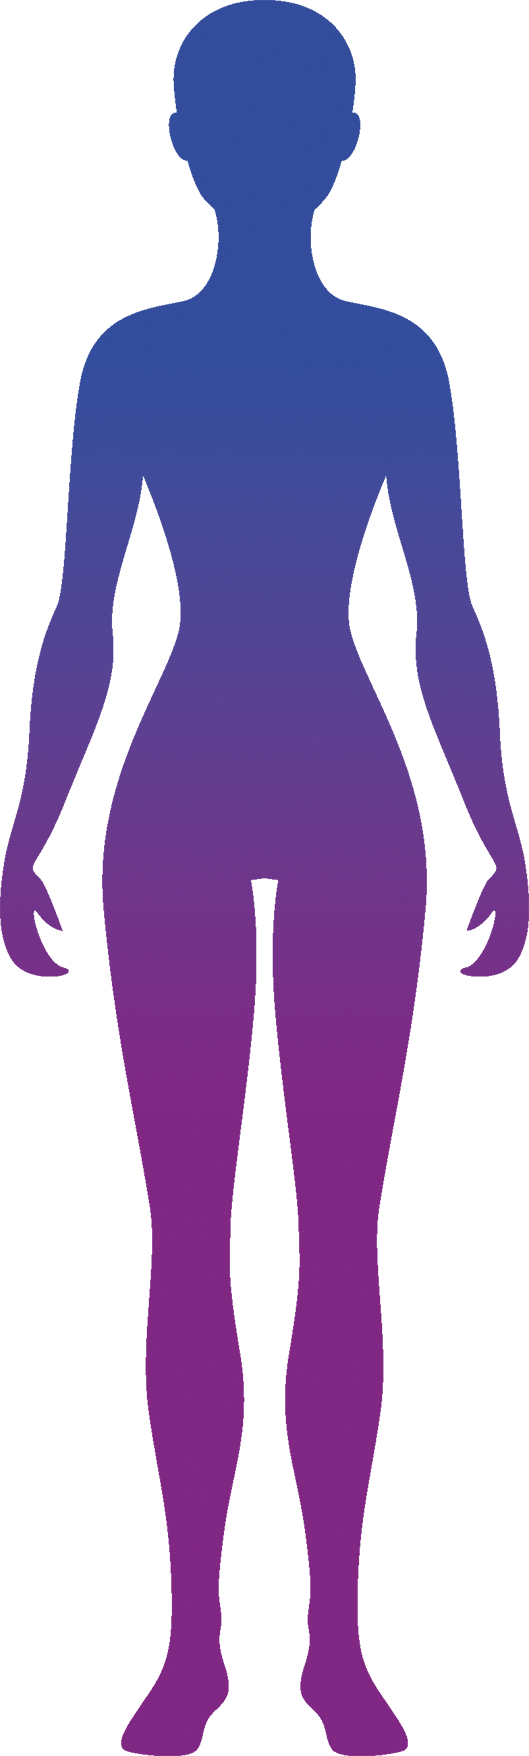
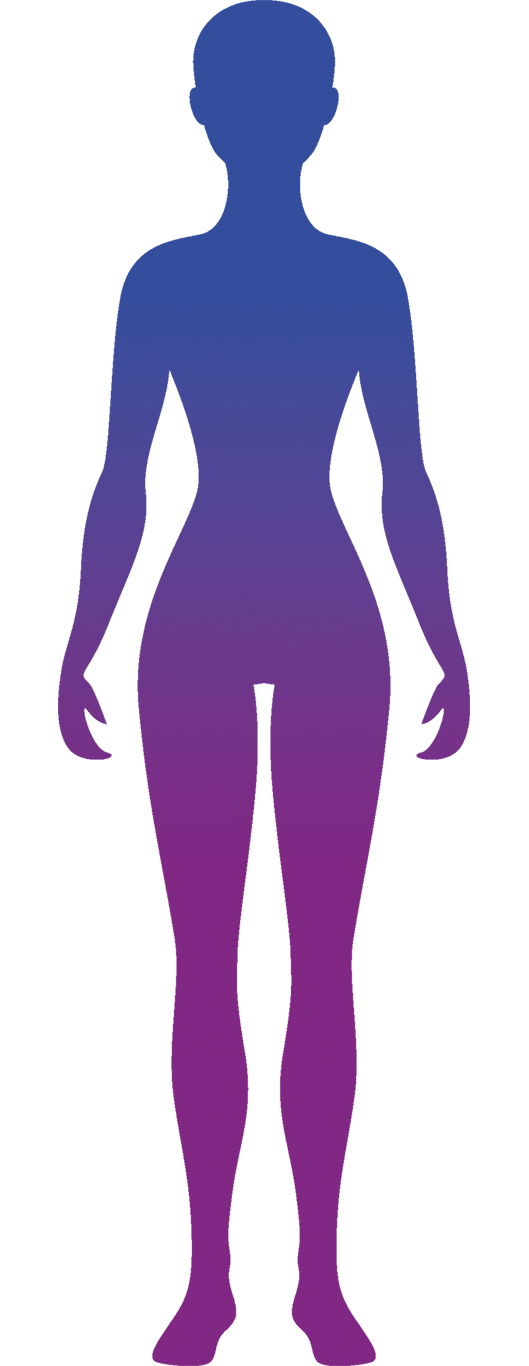
Communication with API and results display

diff --git a/fitness_calc.js b/fitness_calc.js
@@ -1,9 +1,10 @@
 // Weight slider
 
-let weightIndicator = document.getElementById('weight-indicator')
-let weightSlider = document.getElementById('weight-input')
+const weightIndicator = document.getElementById('weight-indicator')
+const weightSlider = document.getElementById('weight-input')
 
 weightIndicator.style.left = (weightSlider.value-45)*0.808333+'%'
+weightIndicator.textContent = weightSlider.value + 'kg'
 
 weightSlider.oninput = (()=>{
     weightIndicator.style.left = (weightSlider.value-45)*0.808333+'%'
@@ -12,15 +13,133 @@ weightSlider.oninput = (()=>{
 
 //gender toggler
 
-let maleBtn = document.getElementById('btn-male')
-let femaleBtn = document.getElementById('btn-female')
+let gender = 'male'
 
-maleBtn.onclick = (()=>{
+const maleBtn = document.getElementById('btn-male')
+const femaleBtn = document.getElementById('btn-female')
+const body = document.getElementById('body')
+
+maleBtn.onclick = ()=>{
     maleBtn.classList.toggle('active')
     femaleBtn.classList.toggle('active')
-})
+    body.src = 'imgs/bodies/male.png'
+    gender = 'male'
+}
 
-femaleBtn.onclick = (()=>{
+femaleBtn.onclick = ()=>{
     femaleBtn.classList.toggle('active')
     maleBtn.classList.toggle('active')
-})
+    body.src = 'imgs/bodies/female.png'
+    gender = 'female'
+}
+
+//get data
+
+const btnCalc = document.getElementById('btn-calc')
+
+btnCalc.onclick = ()=>{
+    
+    let age = document.getElementById('age-input').value
+    if (age === ''){age = -1}
+    else if (age == 0){age = 1}
+        
+    let weight = document.getElementById('weight-input').value
+    let height = document.getElementById('height-input').value
+    let neck = document.getElementById('neck-input').value
+    let waist = document.getElementById('waist-input').value
+    let hip = document.getElementById('hip-input').value
+
+    const options = {
+        method: 'GET',
+        headers: {
+            'X-RapidAPI-Key': '764b7dd13bmsh5052cb02cc32d39p133d57jsne66582f5752e',
+		    'X-RapidAPI-Host': 'fitness-calculator.p.rapidapi.com'
+        }
+    }
+
+    fetch(`https://fitness-calculator.p.rapidapi.com/bodyfat?age=${age}&gender=${gender}&weight=${weight}&height=${height}&neck=${neck}&waist=${waist}&hip=${hip}`, options)
+
+        .then(response => response.json())
+        .then(response => {
+            console.log(response)
+            if(response.status_code === 422){
+                showErrors(response.errors)
+            }
+            if(response.status_code === 200){
+                showResults(response.data)
+            }
+        })
+}
+
+
+
+//results
+
+const resultsModal = new bootstrap.Modal(document.getElementById('results-modal'))
+const resultsTitle = document.querySelector('.modal-title')
+const resultsBody = document.querySelector('.modal-body')
+
+function showErrors(errors){
+    
+    resultsTitle.textContent = 'Wrong Values'
+    resultsBody.innerHTML = '<ul></ul>'
+    
+    errors.forEach(error => {
+        let errorElement = document.createElement('li')
+        error[0] = error[0].toUpperCase()
+        errorElement.textContent = error
+        document.querySelector('.modal-body ul').appendChild(errorElement)
+    })
+
+    resultsModal.toggle()
+}
+
+function showWrongMeasurements() {
+    resultsTitle.textContent = 'Wrong Measurements'
+    
+    resultsBody.textContent = 'The values you provide are not proportionally correct'
+    resultsModal.toggle()
+
+}
+
+function showResults(data){
+
+    for (let x in data){
+        if (isFinite(data[x]) && data[x] < 1){
+            showWrongMeasurements()
+            return
+        }
+    }
+    
+    resultsTitle.textContent = 'Results'
+    resultsBody.innerHTML = '<ul></ul>'
+    let category = ''
+
+    switch(data['Body Fat Category']){
+        case 'Obese':
+            category = "danger"
+            break
+        case 'Average':
+            category = "warning"
+            break
+        case 'Fitness':
+            category = "success"
+            break
+        case 'Athletes':
+            category = "primary"
+            break
+    }
+
+    let html = `
+        
+        <li>Body Fat: <span class="text-${category}">${data['Body Fat (BMI method)']}</span></li>
+        <li>Body Fat Category: <span class="text-${category}">${data['Body Fat Category']}</span></li>
+        <li>Body Fat Mass: <span class="text-${category}">${data['Body Fat Mass']}</span></li>
+        <li>Lean Body Mass: <span class="text-${category}">${data['Lean Body Mass']}</span></li>
+
+    `
+
+    document.querySelector('.modal-body ul').innerHTML = html
+    
+    resultsModal.toggle()
+}

diff --git a/index.html b/index.html
@@ -39,12 +39,12 @@
             <div class="container-fluid d-flex justify-content-evenly w-75">
                 <div class="col-auto d-flex justify-content-center p-0 align-items-stretch">
                     <div class="d-flex flex-column">
-                        <img src="imgs/bodies/man.png" alt="" id="body">
+                        <img src="imgs/bodies/male.png" alt="male" id="body">
                         <div class="mt-4 d-flex justify-content-between px-2">
-                            <button class="bg-transparent border-0 ms-2 text-muted active" id="btn-male">
+                            <button class="bg-transparent border-0 text-muted active" id="btn-male">
                                 <i class="fa-solid fa-mars"></i>
                             </button>
-                            <button class="bg-transparent border-0 ms-2 text-muted" id="btn-female">
+                            <button class="bg-transparent border-0 text-muted" id="btn-female">
                                 <i class="fa-solid fa-venus"></i>
                             </button>
                         </div>
@@ -91,8 +91,8 @@
                                     <div class="w-75 mx-auto">
                                         <label class="form-label" for="age-input">Age</label>
                                         <div class="input-group flex-nowrap">
-                                            <input class="form-control text-center" type="number" id="age-input" aria-describedby="age-cm" min="40" max="130">
-                                            <span class="input-group-text" id="age-cm">cm</span>
+                                            <input class="form-control text-center" type="number" id="age-input" aria-describedby="age-years" min="1" max="80">
+                                            <span class="input-group-text" id="age-years">years</span>
                                         </div>
                                     </div>
                                 </div>
@@ -109,7 +109,7 @@
                                     <div class="text-center mb-5 position-relative w-100">
                                         <label class="form-label" for="weight-input">Weight</label><br/>
                                         <input class="form-range" type="range" id="weight-input" min="40" max="160" value="100">
-                                        <span id="weight-indicator">100kg</span>
+                                        <span id="weight-indicator"></span>
                                     </div>
                                 </div>
                             </div>
@@ -119,12 +119,27 @@
                         </button>
                     </div>
                 </div>
+
             </div>
         </div>
     </div>
 
-    <script src="fitness_calc.js" type="text/JavaScript"></script>
+    <div class="modal fade" tabindex="-1" id="results-modal">
+        <div class="modal-dialog modal-dialog-centered">
+            <div class="modal-content">
+                <div class="modal-header">
+                    <h5 class="modal-title"></h5>
+                    <button type="button" class="btn-close" data-bs-dismiss="modal" aria-label="Close"></button>
+                </div>
+                <div class="modal-body">
+
+                </div>
+            </div>
+        </div>
+    </div>
+
     <script src="https://cdn.jsdelivr.net/npm/@popperjs/core@2.11.5/dist/umd/popper.min.js" integrity="sha384-Xe+8cL9oJa6tN/veChSP7q+mnSPaj5Bcu9mPX5F5xIGE0DVittaqT5lorf0EI7Vk" crossorigin="anonymous"></script>
     <script src="https://cdn.jsdelivr.net/npm/bootstrap@5.2.0-beta1/dist/js/bootstrap.min.js" integrity="sha384-kjU+l4N0Yf4ZOJErLsIcvOU2qSb74wXpOhqTvwVx3OElZRweTnQ6d31fXEoRD1Jy" crossorigin="anonymous"></script>
+    <script src="fitness_calc.js" type="text/JavaScript"></script>
 </body>
 </html>
